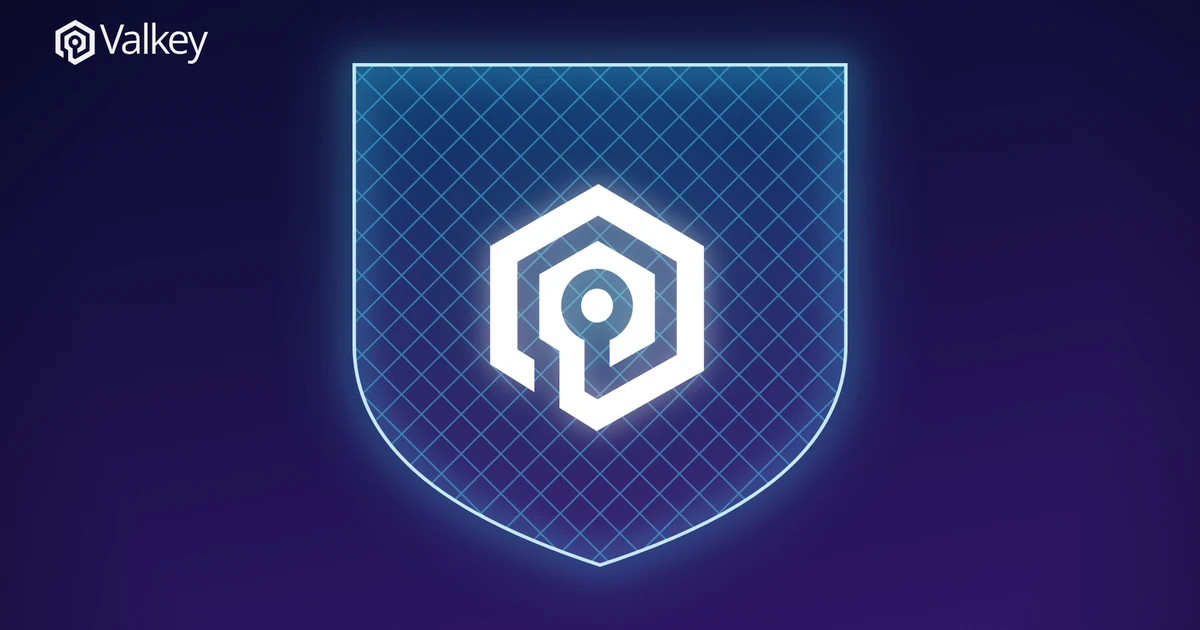
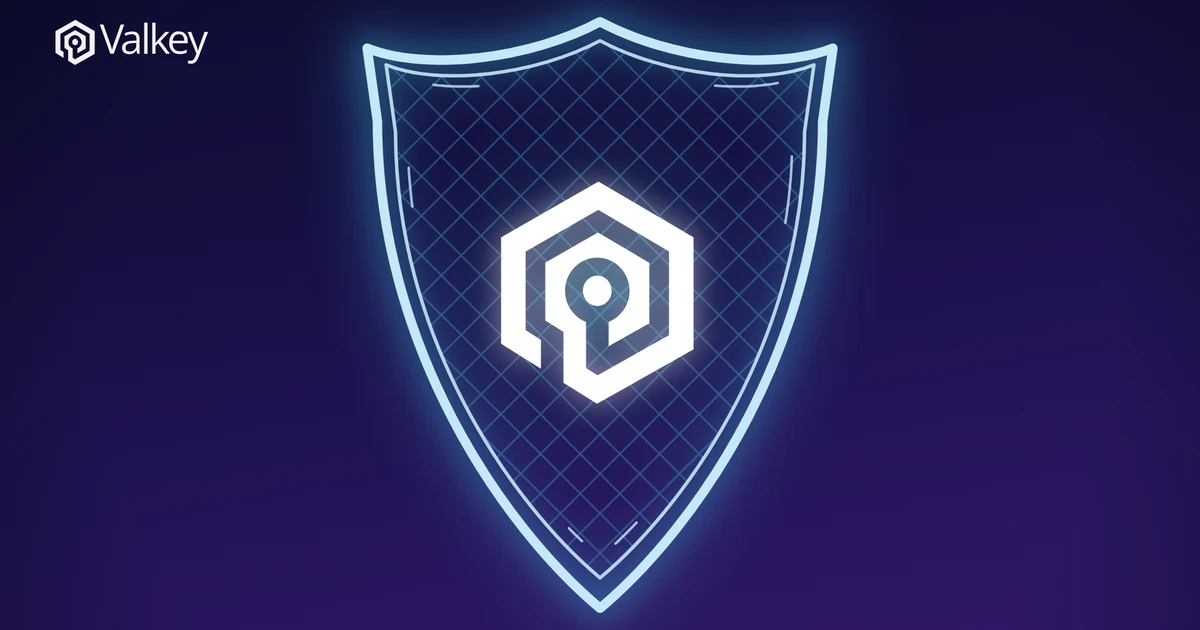
Draw a heater shield, make it the card's art, and let a post set the card's title
The shield is now a heater shield after a reference madolson chose: a
peaked top that sags toward the corners, flared shoulders, sides curving to
a point, a double outline with a few highlight strokes inside. It keeps the
lattice, glow and mark of valkey-svgs' security-shield-clean, which has
only a flat-topped outline, so extract.mjs draws the outline itself and the
SVG says so.

The shield spans 86% of the card's height, centred at 68% across and clear
of the lockup. It fades out from its left edge to full strength 80% of the
way across, so its left half dissolves under the title.

extra.hero_title sets the card's title when it should differ from the post
title, and each "\n" in it starts a new line. Without it the card uses the
post title as before.

Changed region(s): [[0.2775, 0.0, 0.74, 0.9952]]

diff --git a/templates/macros/blog-hero.html b/templates/macros/blog-hero.html
@@ -6,7 +6,8 @@
   the layout is in sass/_blog-hero.scss.
 
   Setting `hero_motif` at all opts in. "security" adds the shield;
-  "none", or any other value, gets the card with no motif.
+  "none", or any other value, gets the card with no motif. `extra.hero_title` replaces the
+  post title on the card only, and each "\n" in it starts a new line.
   An opted-in post shows the card instead of its `featured_image` and uses the card's
   preview for og:image. Every other post is untouched.
 #}
@@ -28,10 +29,13 @@
    title's length lets one too long for three lines step down (sass/_blog-hero.scss). #}
 {% component blog_hero.card(page) -%}
   {%- set motif %}{{< blog_hero.motif page={page} />}}{% endset -%}
+  {%- set title = page.extra.hero_title | default(value=page.title) -%}
   <div class="blog-hero{% if motif %} blog-hero--motif{% endif %}" aria-hidden="true">
     <div class="blog-hero-body">
       <span class="blog-hero-lockup"></span>
-      <div class="blog-hero-title" style="--blog-hero-chars: {{ page.title | length }}"><span>{{ page.title }}</span></div>
+      <div class="blog-hero-title" style="--blog-hero-chars: {{ title | length }}"><span>
+        {%- for line in title | split(pat="\n") %}{% if not loop.first %}<br>{% endif %}{{ line | trim }}{% endfor -%}
+      </span></div>
       {%- if motif %}
       <span class="blog-hero-motif" style="background-image: url(/assets/media/blog-hero/motif-{{ motif }}.svg)"></span>
       {%- endif %}

diff --git a/sass/_blog-hero.scss b/sass/_blog-hero.scss
@@ -43,18 +43,25 @@ $blog-hero-ice: #CCF1FF;
   background: url(/assets/media/blog-hero/lockup.svg) left top / contain no-repeat;
 }
 
-// The shield fills the right 45% of the card behind the title, centred in it, clear of the
-// lockup. It is dimmed and dissolves to nothing across its left half, so where the title
-// runs over it the blocks sit on a quiet patch and the right edge of the shield reads whole.
+// The shield is the card's art: 86% of the card's height, centred at 68% across, so it is
+// clear of the lockup. Its tile runs the full height of the card; the glow beyond the
+// shield's outline is cropped by the card's edges. The shield fades out from its left edge
+// to full strength 80% of the way across, so its left half dissolves under the title.
+.blog-hero-body {
+  position: relative;
+}
+
 .blog-hero-motif {
-  grid-area: 1 / 1 / -1 / -1;
-  justify-self: end;
+  position: absolute;
+  top: 0;
+  right: 5cqi;
+  bottom: 0;
   z-index: 0;
-  width: 45%;
-  background: center / contain no-repeat;
-  opacity: 0.7;
-  -webkit-mask-image: linear-gradient(to right, transparent, #000 55%);
-  mask-image: linear-gradient(to right, transparent, #000 55%);
+  width: 54cqi;
+  background: center / auto 114% no-repeat;
+  opacity: 0.9;
+  -webkit-mask-image: linear-gradient(to right, transparent 14%, #000 80%);
+  mask-image: linear-gradient(to right, transparent 14%, #000 80%);
 }
 
 .blog-hero-lockup,

diff --git a/CONTRIBUTING-BLOG-POST.md b/CONTRIBUTING-BLOG-POST.md
@@ -173,6 +173,9 @@ draft = true
     # "security" adds the Valkey security shield, faded behind the title; "none" gives the card
     # without it. Leave it out to keep the image.
     hero_motif = "security"
+    # 'hero_title' (optional) is the title on the card when it should differ from 'title',
+    # usually to choose the line breaks: each "\n" starts a new line. The page title is unchanged.
+    hero_title = "Using Valkey for\nmind control experiments"
 +++
 ```
 
